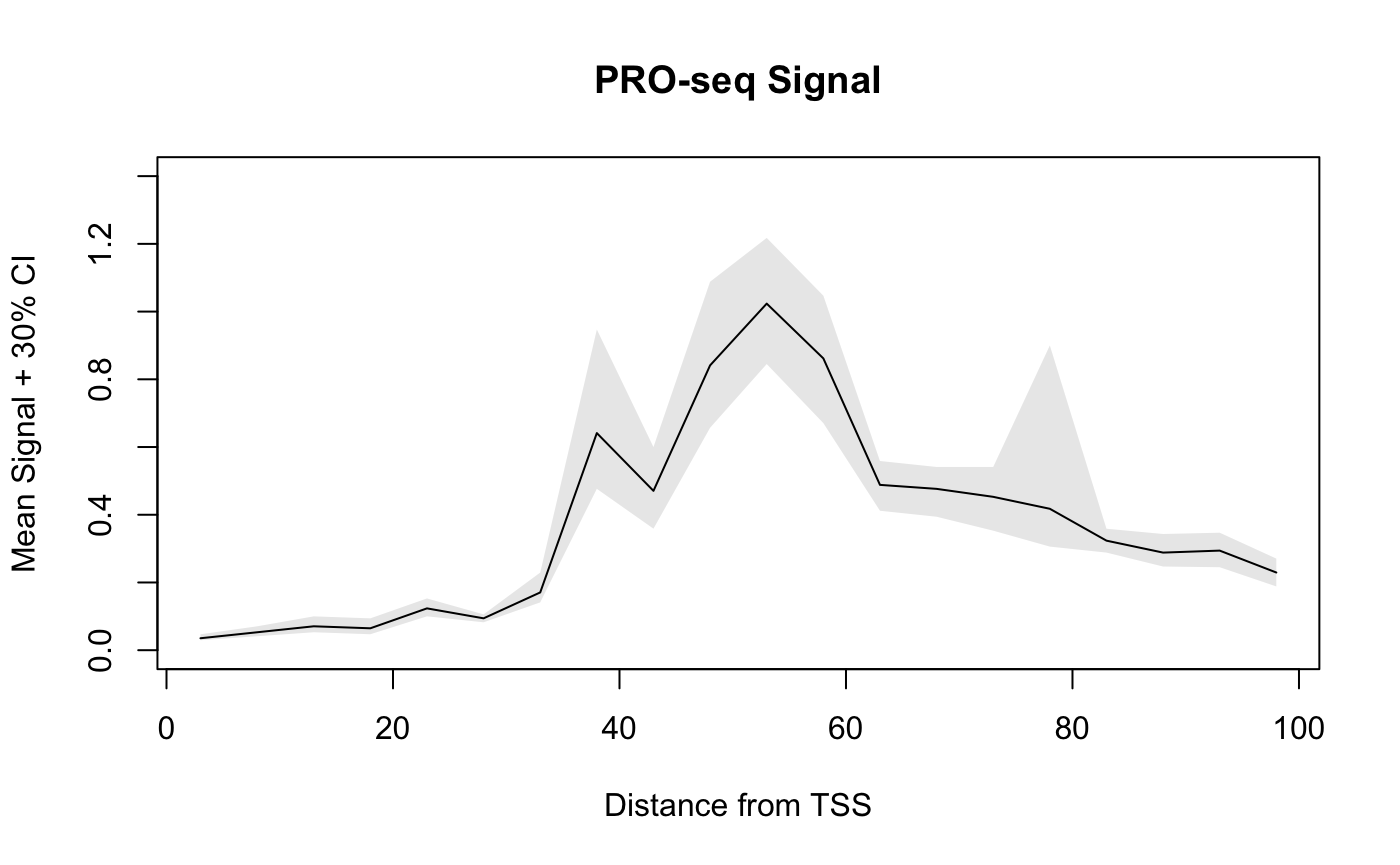
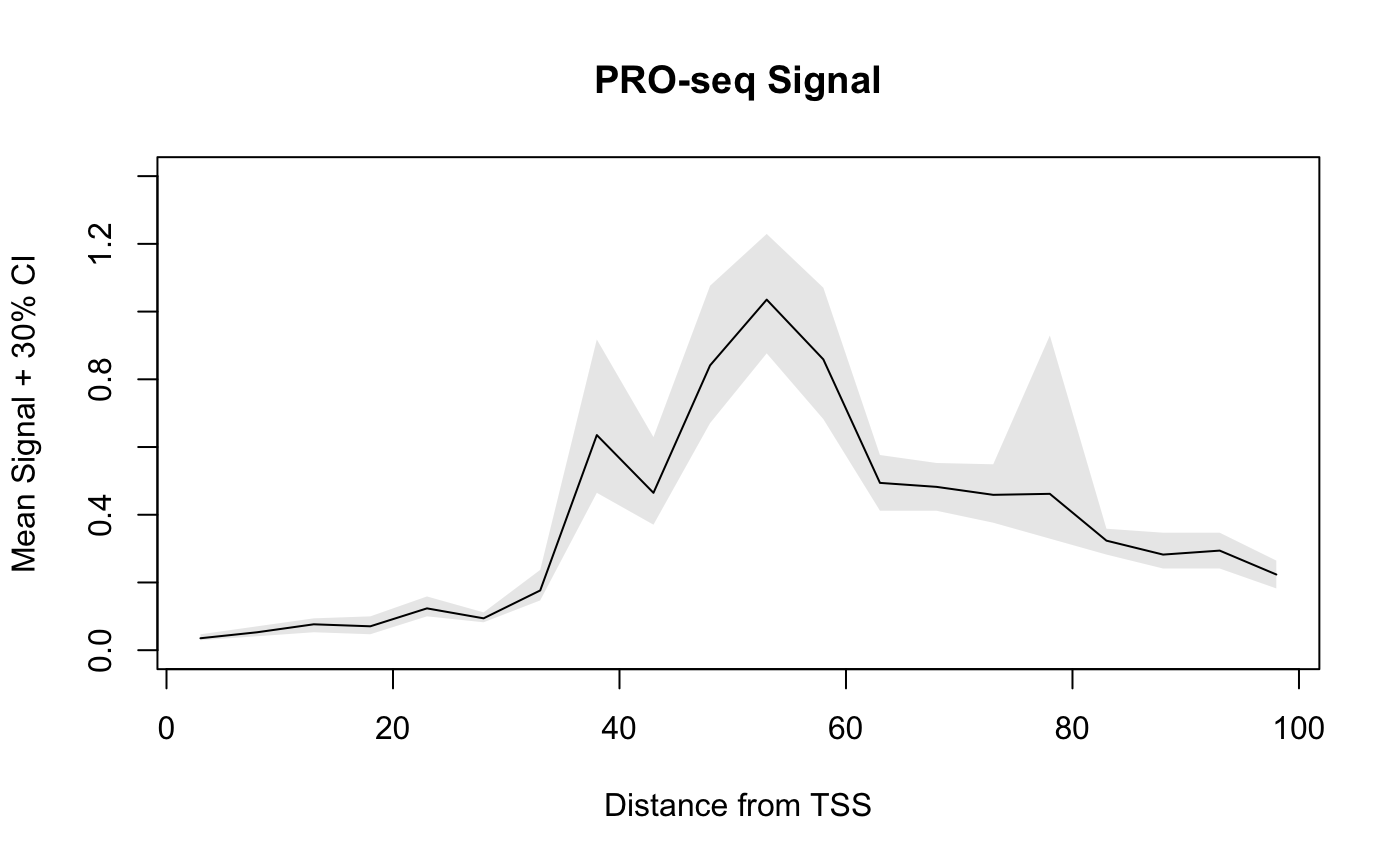
v0.99.4

diff --git a/articles/BRGenomicsOverview.html b/articles/BRGenomicsOverview.html
@@ -31,7 +31,7 @@
       </button>
       <span class="navbar-brand">
         <a class="navbar-link" href="../index.html">BRGenomics</a>
-        <span class="version label label-default" data-toggle="tooltip" data-placement="bottom" title="Released version">0.99.1</span>
+        <span class="version label label-default" data-toggle="tooltip" data-placement="bottom" title="Released version">0.99.4</span>
       </span>
     </div>
 
@@ -156,7 +156,7 @@
 <a href="#installation" class="anchor"></a>Installation</h2>
 <p>Install development version from <a href="https://github.com/mdeber/BRGenomics">GitHub</a>:</p>
 <div class="sourceCode" id="cb1"><pre class="sourceCode r"><code class="sourceCode r"><a class="sourceLine" id="cb1-1" data-line-number="1"><span class="co"># install.packages("devtools")</span></a>
-<a class="sourceLine" id="cb1-2" data-line-number="2">devtools<span class="op">::</span><span class="kw"><a href="https://devtools.r-lib.org//reference/remote-reexports.html">install_github</a></span>(<span class="st">"mdeber/BRGenomics"</span>)</a></code></pre></div>
+<a class="sourceLine" id="cb1-2" data-line-number="2">devtools<span class="op">::</span><span class="kw"><a href="https://devtools.r-lib.org//reference/remote-reexports.html">install_github</a></span>(<span class="st">"mdeber/BRGenomics@R3"</span>)</a></code></pre></div>
 <p>If you’re using Windows, <a href="https://cran.rstudio.com/bin/windows/Rtools/">Rtools for Windows</a> is required.</p>
 </div>
 <div id="parallel-processing" class="section level2">
@@ -881,7 +881,7 @@
 <h2 class="hasAnchor">
 <a href="#example-summarizing-signal-from-multiple-samples" class="anchor"></a>Example: Summarizing Signal from Multiple Samples</h2>
 <p>We can pass our list of GRanges directly to <code>getCountsByRegions</code> to simultaneously count reads for each dataset, and melt the result for plotting with <code>ggplot</code>:</p>
-<div class="sourceCode" id="cb108"><pre class="sourceCode r"><code class="sourceCode r"><a class="sourceLine" id="cb108-1" data-line-number="1"><span class="kw"><a href="../reference/getCountsByRegions.html">getCountsByRegions</a></span>(ps_list, txs_dm6_chr4[<span class="dv">1</span><span class="op">:</span><span class="dv">5</span>], <span class="dt">ncores =</span> <span class="dv">2</span>)</a></code></pre></div>
+<div class="sourceCode" id="cb108"><pre class="sourceCode r"><code class="sourceCode r"><a class="sourceLine" id="cb108-1" data-line-number="1"><span class="kw"><a href="../reference/getCountsByRegions.html">getCountsByRegions</a></span>(ps_list, txs_dm6_chr4[<span class="dv">1</span><span class="op">:</span><span class="dv">5</span>], <span class="dt">ncores =</span> <span class="dv">1</span>)</a></code></pre></div>
 <pre><code>##   ps1 ps2 ps3
 ## 1   1   0   0
 ## 2  20  22  17
@@ -891,7 +891,7 @@
 <div class="sourceCode" id="cb110"><pre class="sourceCode r"><code class="sourceCode r"><a class="sourceLine" id="cb110-1" data-line-number="1"><span class="co"># melt, and use the optional region_names argument</span></a>
 <a class="sourceLine" id="cb110-2" data-line-number="2">txs_counts &lt;-<span class="st"> </span><span class="kw"><a href="../reference/getCountsByRegions.html">getCountsByRegions</a></span>(ps_list, txs_dm6_chr4, <span class="dt">melt =</span> <span class="ot">TRUE</span>,</a>
 <a class="sourceLine" id="cb110-3" data-line-number="3">                                 <span class="dt">region_names =</span> txs_dm6_chr4<span class="op">$</span>tx_name,</a>
-<a class="sourceLine" id="cb110-4" data-line-number="4">                                 <span class="dt">ncores =</span> <span class="dv">2</span>)</a>
+<a class="sourceLine" id="cb110-4" data-line-number="4">                                 <span class="dt">ncores =</span> <span class="dv">1</span>)</a>
 <a class="sourceLine" id="cb110-5" data-line-number="5"><span class="kw"><a href="https://rdrr.io/r/utils/head.html">head</a></span>(txs_counts)</a></code></pre></div>
 <pre><code>##        region signal sample
 ## 1 FBtr0346692      1    ps1
@@ -1074,10 +1074,10 @@
 <pre><code>##    x       mean      lower      upper sample.name
 ## 1  3 0.03529412 0.02941176 0.04705882      PROseq
 ## 2  8 0.05294118 0.04117647 0.07058824      PROseq
-## 3 13 0.07058824 0.05294118 0.10000000      PROseq
-## 4 18 0.06470588 0.04705882 0.09411765      PROseq
-## 5 23 0.12352941 0.10000000 0.15294118      PROseq
-## 6 28 0.09411765 0.08235294 0.10588235      PROseq</code></pre>
+## 3 13 0.07647059 0.05294118 0.09411765      PROseq
+## 4 18 0.07058824 0.04705882 0.10000000      PROseq
+## 5 23 0.12352941 0.10000000 0.15882353      PROseq
+## 6 28 0.09411765 0.08235294 0.11176471      PROseq</code></pre>
 <p>A dataframe is returned for plotting, and notice how the x-values have been automatically adjusted to be the center of the bins.</p>
 <p>Below, we show how to plot the confidence bands using base R plotting, as well as <code>ggplot2</code>.</p>
 <div class="sourceCode" id="cb134"><pre class="sourceCode r"><code class="sourceCode r"><a class="sourceLine" id="cb134-1" data-line-number="1"><span class="kw"><a href="https://rdrr.io/r/graphics/plot.html">plot</a></span>(mean <span class="op">~</span><span class="st"> </span>x, <span class="dt">data =</span> bootmeans.df, <span class="dt">type =</span> <span class="st">"l"</span>, </a>
@@ -1113,7 +1113,7 @@
 ## 1  3 0.01176471 0.005882353 0.01764706         ps1
 ## 2  8 0.01764706 0.011764706 0.02352941         ps1
 ## 3 13 0.01764706 0.011764706 0.02352941         ps1
-## 4 18 0.04117647 0.029411765 0.05294118         ps1
+## 4 18 0.04117647 0.023529412 0.04911765         ps1
 ## 5 23 0.02941176 0.017647059 0.04705882         ps1
 ## 6 28 0.02941176 0.023529412 0.04117647         ps1</code></pre>
 <div class="sourceCode" id="cb138"><pre class="sourceCode r"><code class="sourceCode r"><a class="sourceLine" id="cb138-1" data-line-number="1"><span class="kw"><a href="https://rdrr.io/r/base/library.html">require</a></span>(ggplot2)</a>
@@ -1383,7 +1383,7 @@
 ## GRanges object with 1 range and 1 metadata column:
 ##       seqnames    ranges strand |     score
 ##          &lt;Rle&gt; &lt;IRanges&gt;  &lt;Rle&gt; | &lt;integer&gt;
-##   [1]     chr1         1      + |         1
+##   [1]     chr2         2      + |         1
 ##   -------
 ##   seqinfo: 2 sequences from an unspecified genome; no seqlengths
 ## 
@@ -1716,7 +1716,7 @@
 ##  bitops                 1.0-6    2013-08-17 [3] CRAN (R 4.0.0)
 ##  blob                   1.2.1    2020-01-20 [3] CRAN (R 4.0.0)
 ##  bookdown               0.17     2020-01-11 [3] CRAN (R 4.0.0)
-##  BRGenomics           * 0.99.1   2020-03-03 [1] Bioconductor  
+##  BRGenomics           * 0.99.4   2020-03-03 [1] Bioconductor  
 ##  callr                  3.4.2    2020-02-12 [3] CRAN (R 4.0.0)
 ##  cli                    2.0.2    2020-02-28 [3] CRAN (R 4.0.0)
 ##  colorspace             1.4-1    2019-03-18 [3] CRAN (R 4.0.0)
@@ -1797,8 +1797,8 @@
 ##  yaml                   2.2.1    2020-02-01 [3] CRAN (R 4.0.0)
 ##  zlibbioc               1.33.1   2020-01-24 [3] Bioconductor  
 ## 
-## [1] /private/var/folders/zt/m504_3g569g6gqzjbqg34qn40000gn/T/RtmpR3pYSG/temp_libpath134e17a7ccab6
-## [2] /private/var/folders/zt/m504_3g569g6gqzjbqg34qn40000gn/T/RtmpR3pYSG/temp_libpath134e14555cb63
+## [1] /private/var/folders/zt/m504_3g569g6gqzjbqg34qn40000gn/T/Rtmpwnc1vd/temp_libpath137d42120c642
+## [2] /private/var/folders/zt/m504_3g569g6gqzjbqg34qn40000gn/T/Rtmpwnc1vd/temp_libpath137d41487607b
 ## [3] /Library/Frameworks/R.framework/Versions/4.0/Resources/library</code></pre>
 <!-- SCRAP -->
 <!-- The `import_bam` function provides several options for processing aligned reads, and in conjunction with functions from the *[rtracklayer](https://bioconductor.org/packages/3.11/rtracklayer)* package, we can easily write a post-alignment pipeline for generating bigWig files for viewing in a genome browser. -->

diff --git a/index.html b/index.html
@@ -41,7 +41,7 @@
       </button>
       <span class="navbar-brand">
         <a class="navbar-link" href="index.html">BRGenomics</a>
-        <span class="version label label-default" data-toggle="tooltip" data-placement="bottom" title="Released version">0.99.1</span>
+        <span class="version label label-default" data-toggle="tooltip" data-placement="bottom" title="Released version">0.99.4</span>
       </span>
     </div>
 
@@ -96,7 +96,7 @@
 <a href="#installation" class="anchor"></a>Installation</h2>
 <p>Install development version from <a href="https://github.com/mdeber/BRGenomics">GitHub</a>:</p>
 <div class="sourceCode" id="cb1"><pre class="sourceCode r"><code class="sourceCode r"><a class="sourceLine" id="cb1-1" data-line-number="1"><span class="co"># install.packages("devtools")</span></a>
-<a class="sourceLine" id="cb1-2" data-line-number="2">devtools<span class="op">::</span><span class="kw"><a href="https://devtools.r-lib.org//reference/remote-reexports.html">install_github</a></span>(<span class="st">"mdeber/BRGenomics"</span>)</a></code></pre></div>
+<a class="sourceLine" id="cb1-2" data-line-number="2">devtools<span class="op">::</span><span class="kw"><a href="https://devtools.r-lib.org//reference/remote-reexports.html">install_github</a></span>(<span class="st">"mdeber/BRGenomics@R3"</span>)</a></code></pre></div>
 <p>If you’re using Windows, <a href="https://cran.rstudio.com/bin/windows/Rtools/">Rtools for Windows</a> is required.</p>
 </div>
 <div id="features" class="section level2">

diff --git a/reference/subsampleBySpikeIn.html b/reference/subsampleBySpikeIn.html
@@ -69,7 +69,7 @@
       </button>
       <span class="navbar-brand">
         <a class="navbar-link" href="../index.html">BRGenomics</a>
-        <span class="version label label-default" data-toggle="tooltip" data-placement="bottom" title="Released version">0.99.1</span>
+        <span class="version label label-default" data-toggle="tooltip" data-placement="bottom" title="Released version">0.99.4</span>
       </span>
     </div>
 
@@ -274,8 +274,8 @@ column.</p></td>
 #&gt; GRanges object with 2 ranges and 1 metadata column:
 #&gt;       seqnames    ranges strand |     score
 #&gt;          &lt;Rle&gt; &lt;IRanges&gt;  &lt;Rle&gt; | &lt;integer&gt;
-#&gt;   [1]     chr1         1      + |         3
-#&gt;   [2]     chr2         2      + |         3
+#&gt;   [1]     chr1         1      + |         4
+#&gt;   [2]     chr2         2      + |         2
 #&gt;   -------
 #&gt;   seqinfo: 2 sequences from an unspecified genome; no seqlengths
 #&gt; </div><div class='input'>
@@ -326,8 +326,8 @@ column.</p></td>
 #&gt; GRanges object with 2 ranges and 1 metadata column:
 #&gt;       seqnames    ranges strand |     score
 #&gt;          &lt;Rle&gt; &lt;IRanges&gt;  &lt;Rle&gt; | &lt;numeric&gt;
-#&gt;   [1]     chr1         1      + |     1e+06
-#&gt;   [2]     chr2         2      + |     2e+06
+#&gt;   [1]     chr1         1      + |   1500000
+#&gt;   [2]     chr2         2      + |   1500000
 #&gt;   -------
 #&gt;   seqinfo: 2 sequences from an unspecified genome; no seqlengths
 #&gt; </div><div class='input'>

diff --git a/news/index.html b/news/index.html
@@ -67,7 +67,7 @@
       </button>
       <span class="navbar-brand">
         <a class="navbar-link" href="../index.html">BRGenomics</a>
-        <span class="version label label-default" data-toggle="tooltip" data-placement="bottom" title="Released version">0.99.1</span>
+        <span class="version label label-default" data-toggle="tooltip" data-placement="bottom" title="Released version">0.99.4</span>
       </span>
     </div>
 
@@ -117,6 +117,19 @@
       
     </div>
 
+    <div id="brgenomics-0-99-4" class="section level2">
+<h2 class="hasAnchor">
+<a href="#brgenomics-0-99-4" class="anchor"></a>BRGenomics 0.99.4</h2>
+<ul>
+<li>For Bioconductor, made new branch <code>R3</code> to allow users to install under R version &gt;=3.5
+<ul>
+<li>Branch <code>master</code> now requires R version 4.0 (development version)</li>
+</ul>
+</li>
+<li>Updated readme to have users install from branch <code>R3</code>
+</li>
+</ul>
+</div>
     <div id="brgenomics-0-99-1" class="section level2">
 <h2 class="hasAnchor">
 <a href="#brgenomics-0-99-1" class="anchor"></a>BRGenomics 0.99.1</h2>
@@ -324,6 +337,7 @@
     <div id="tocnav">
       <h2>Contents</h2>
       <ul class="nav nav-pills nav-stacked">
+        <li><a href="#brgenomics-0-99-4">0.99.4</a></li>
         <li><a href="#brgenomics-0-99-1">0.99.1</a></li>
         <li><a href="#brgenomics-0-99-0-bioconductor-submission">0.99.0</a></li>
         <li><a href="#brgenomics-0-8-1">0.8.1</a></li>

diff --git a/reference/binNdimensions.html b/reference/binNdimensions.html
@@ -70,7 +70,7 @@ summarize the datapoints that fall into any of these n-dimensional bins." />
       </button>
       <span class="navbar-brand">
         <a class="navbar-link" href="../index.html">BRGenomics</a>
-        <span class="version label label-default" data-toggle="tooltip" data-placement="bottom" title="Released version">0.99.1</span>
+        <span class="version label label-default" data-toggle="tooltip" data-placement="bottom" title="Released version">0.99.4</span>
       </span>
     </div>
 

diff --git a/reference/import_bam.html b/reference/import_bam.html
@@ -70,7 +70,7 @@ processing options. It is highly recommend to index the BAM file first." />
       </button>
       <span class="navbar-brand">
         <a class="navbar-link" href="../index.html">BRGenomics</a>
-        <span class="version label label-default" data-toggle="tooltip" data-placement="bottom" title="Released version">0.99.1</span>
+        <span class="version label label-default" data-toggle="tooltip" data-placement="bottom" title="Released version">0.99.4</span>
       </span>
     </div>
 

diff --git a/reference/txs_dm6_chr4.html b/reference/txs_dm6_chr4.html
@@ -73,7 +73,7 @@ the TxDb package using GenomicFeatures version 1.35.11 on 2019-12-19." />
       </button>
       <span class="navbar-brand">
         <a class="navbar-link" href="../index.html">BRGenomics</a>
-        <span class="version label label-default" data-toggle="tooltip" data-placement="bottom" title="Released version">0.99.1</span>
+        <span class="version label label-default" data-toggle="tooltip" data-placement="bottom" title="Released version">0.99.4</span>
       </span>
     </div>
 

diff --git a/reference/mergeGRangesData.html b/reference/mergeGRangesData.html
@@ -72,7 +72,7 @@ multiplexed GRanges containing a field for each input dataset." />
       </button>
       <span class="navbar-brand">
         <a class="navbar-link" href="../index.html">BRGenomics</a>
-        <span class="version label label-default" data-toggle="tooltip" data-placement="bottom" title="Released version">0.99.1</span>
+        <span class="version label label-default" data-toggle="tooltip" data-placement="bottom" title="Released version">0.99.4</span>
       </span>
     </div>
 

diff --git a/reference/BRGenomics-package.html b/reference/BRGenomics-package.html
@@ -74,7 +74,7 @@ For interactive documentation with code examples, see the online
       </button>
       <span class="navbar-brand">
         <a class="navbar-link" href="../index.html">BRGenomics</a>
-        <span class="version label label-default" data-toggle="tooltip" data-placement="bottom" title="Released version">0.99.1</span>
+        <span class="version label label-default" data-toggle="tooltip" data-placement="bottom" title="Released version">0.99.4</span>
       </span>
     </div>
 

diff --git a/reference/genebodies.html b/reference/genebodies.html
@@ -70,7 +70,7 @@ start and end sites of regions of interest (usually genes)." />
       </button>
       <span class="navbar-brand">
         <a class="navbar-link" href="../index.html">BRGenomics</a>
-        <span class="version label label-default" data-toggle="tooltip" data-placement="bottom" title="Released version">0.99.1</span>
+        <span class="version label label-default" data-toggle="tooltip" data-placement="bottom" title="Released version">0.99.4</span>
       </span>
     </div>
 

diff --git a/reference/getStrandedCoverage.html b/reference/getStrandedCoverage.html
@@ -70,7 +70,7 @@ Function also works for non-strand-specific data." />
       </button>
       <span class="navbar-brand">
         <a class="navbar-link" href="../index.html">BRGenomics</a>
-        <span class="version label label-default" data-toggle="tooltip" data-placement="bottom" title="Released version">0.99.1</span>
+        <span class="version label label-default" data-toggle="tooltip" data-placement="bottom" title="Released version">0.99.4</span>
       </span>
     </div>
 

diff --git a/reference/getDESeqResults.html b/reference/getDESeqResults.html
@@ -75,7 +75,7 @@ being compared, and not for all samples present." />
       </button>
       <span class="navbar-brand">
         <a class="navbar-link" href="../index.html">BRGenomics</a>
-        <span class="version label label-default" data-toggle="tooltip" data-placement="bottom" title="Released version">0.99.1</span>
+        <span class="version label label-default" data-toggle="tooltip" data-placement="bottom" title="Released version">0.99.4</span>
       </span>
     </div>
 
